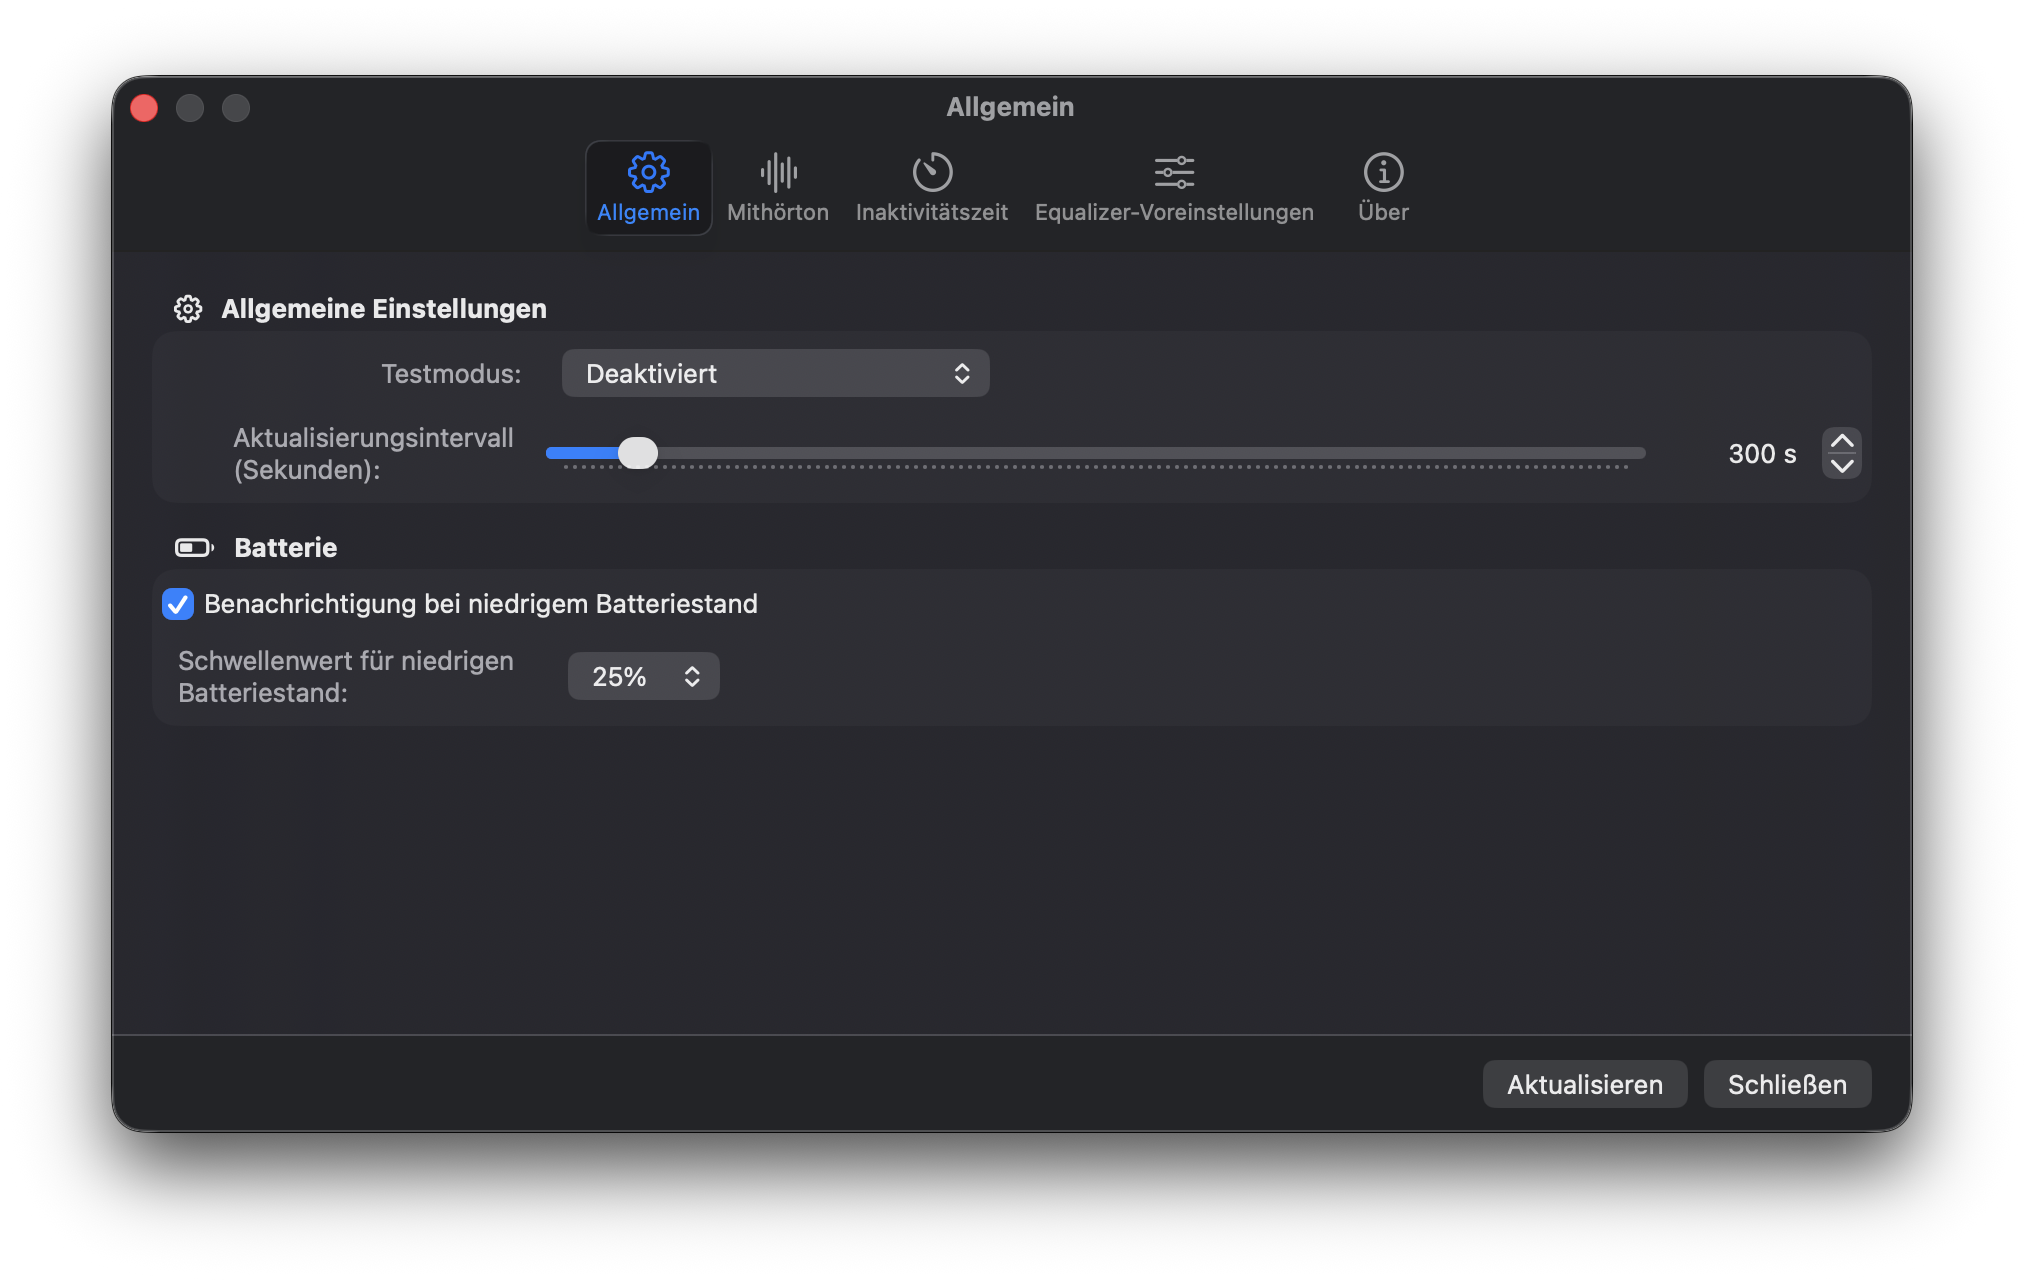
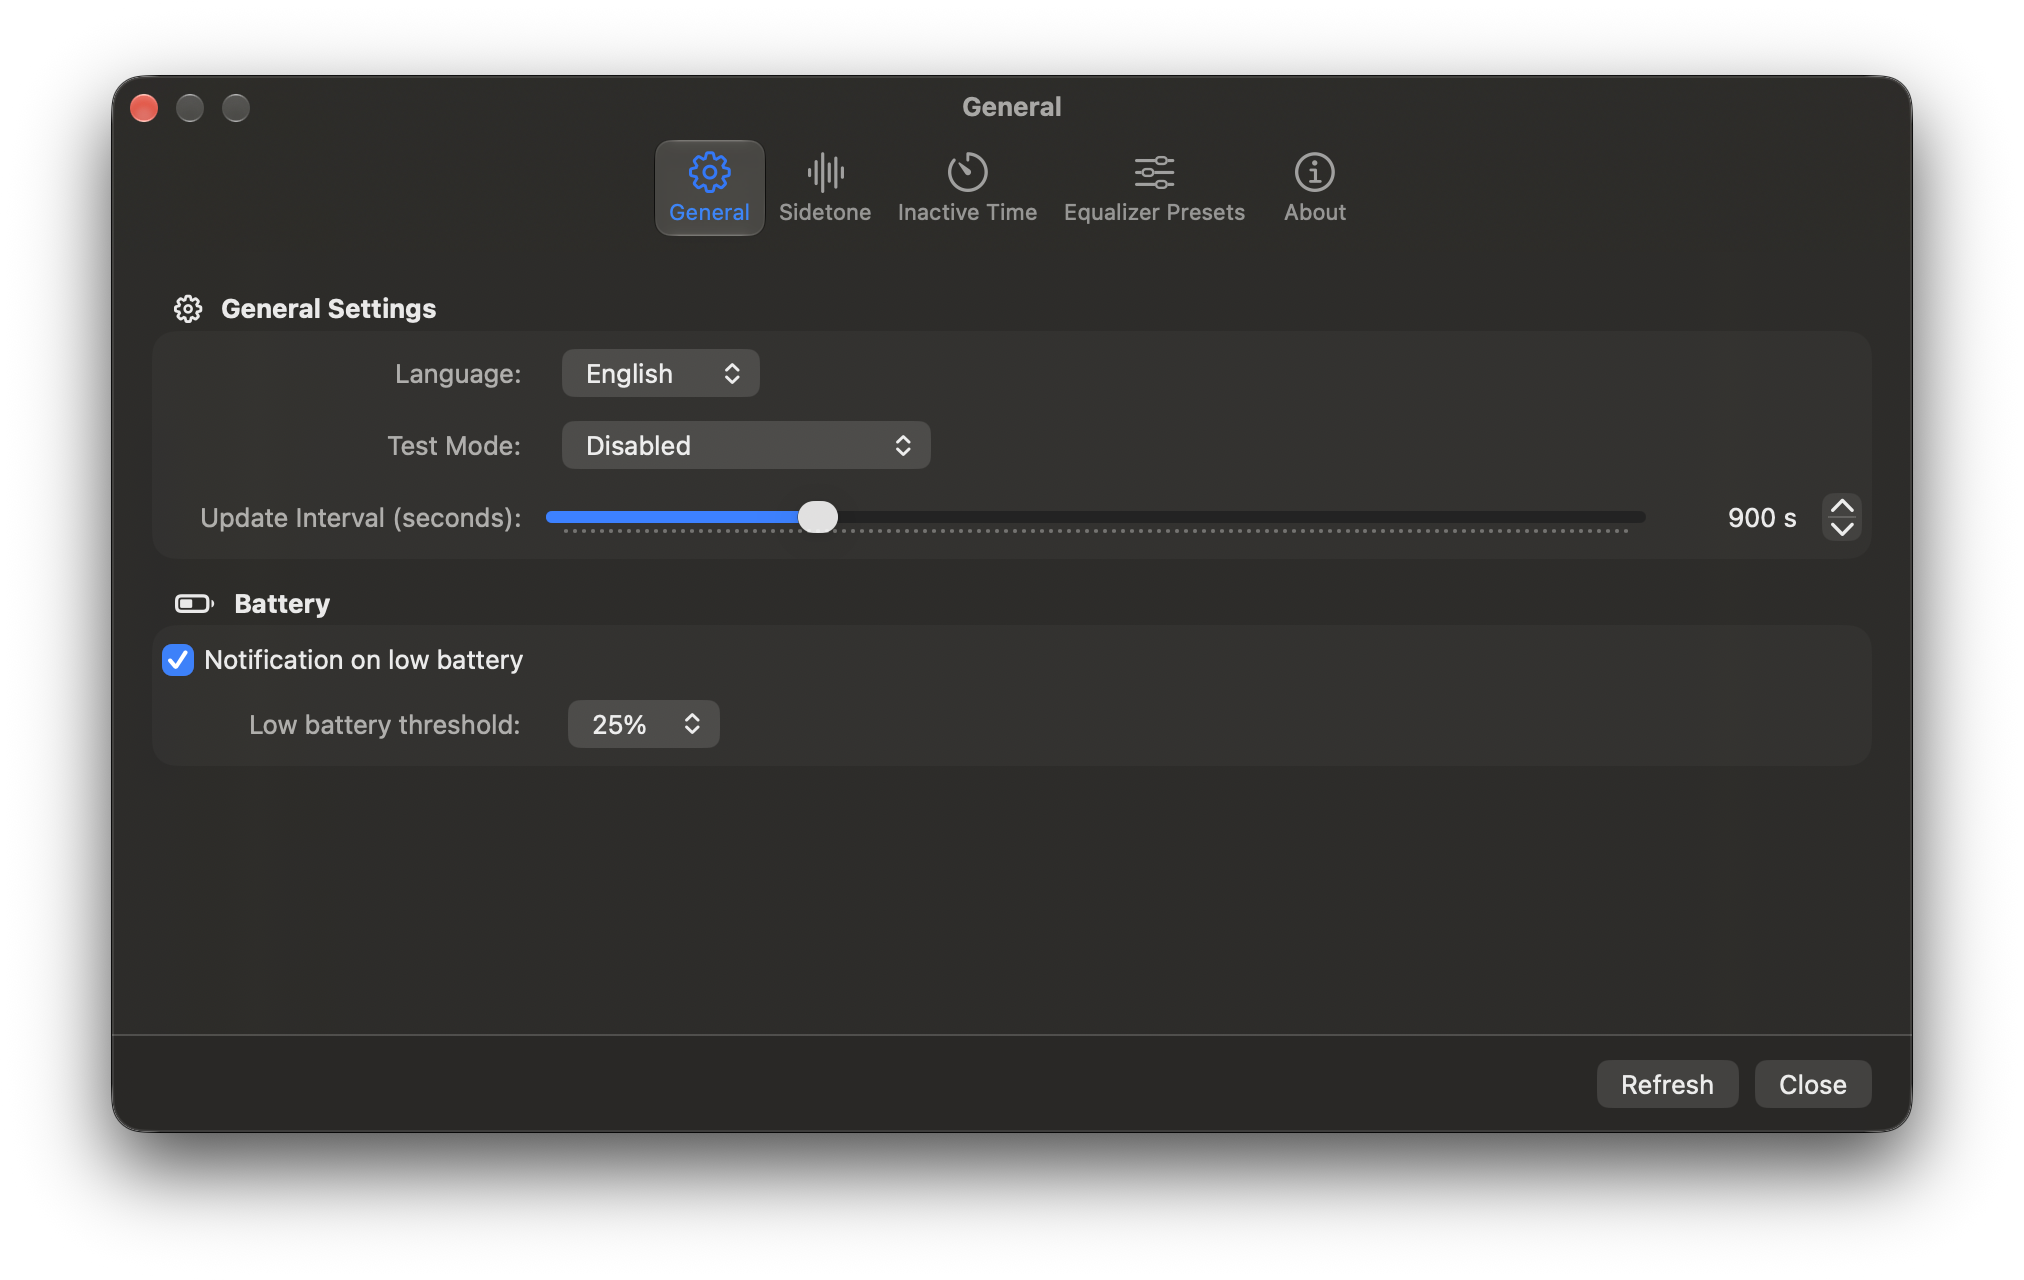
feat(settings): add app language selector (#41)
* feat(settings): add app language selector

* docs(settings): refresh screenshots and bump build number

diff --git a/HeadsetControl-MacOSTray/SettingsView.swift b/HeadsetControl-MacOSTray/SettingsView.swift
@@ -36,6 +36,10 @@ struct SettingsSection<Content: View>: View {
 struct SettingsView: View {
     @State private var nativeVersions: NativeDependencyVersions?
     @State private var requestedNativeVersions = false
+    @State private var selectedLanguage = AppDefaults.selectedLanguage(
+        in: AppDefaults.standard, domain: Bundle.main.bundleIdentifier ?? ""
+    )
+    @State private var languageRestartRequired = false
     @AppStorage("sidetoneOff", store: AppDefaults.standard) var sidetoneOff: Int = AppDefaults.sidetoneValues[0]
     @AppStorage("sidetoneLow", store: AppDefaults.standard) var sidetoneLow: Int = AppDefaults.sidetoneValues[1]
     @AppStorage("sidetoneMid", store: AppDefaults.standard) var sidetoneMid: Int = AppDefaults.sidetoneValues[2]
@@ -177,6 +181,33 @@ struct SettingsView: View {
                     title: NSLocalizedString("General Settings", comment: "General settings section header"),
                     systemImage: "gearshape"
                 ) {
+                    HStack(alignment: .center, spacing: 12) {
+                        settingsLabel(NSLocalizedString("Language:", comment: "App language label"))
+                        Picker("", selection: $selectedLanguage) {
+                            Text(NSLocalizedString("System", comment: "Follow the system language"))
+                                .tag("")
+                            Text(NSLocalizedString("English", comment: "English language name"))
+                                .tag("en")
+                            Text(NSLocalizedString("Deutsch", comment: "German language name"))
+                                .tag("de")
+                            Text(NSLocalizedString("Español", comment: "Spanish language name"))
+                                .tag("es")
+                            Text(NSLocalizedString("Français", comment: "French language name"))
+                                .tag("fr")
+                        }
+                        .pickerStyle(.menu)
+                        .frame(maxWidth: 260, alignment: .leading)
+                        .onChange(of: selectedLanguage) { _, newValue in
+                            AppDefaults.setLanguage(newValue, in: AppDefaults.standard)
+                            languageRestartRequired = true
+                        }
+                    }
+                    if languageRestartRequired {
+                        Text(NSLocalizedString("Restart the app to apply the language change.", comment: "Language change restart notice"))
+                            .font(.caption)
+                            .foregroundColor(.secondary)
+                    }
+
                     HStack(alignment: .center, spacing: 12) {
                         settingsLabel(NSLocalizedString("Test Mode:", comment: "Test mode label"))
                         Picker("", selection: Binding(get: { AppDefaults.validatedTestProfile(testMode) }, set: { testMode = AppDefaults.validatedTestProfile($0) })) {

diff --git a/HeadsetControl-MacOSTrayTests/AppDefaultsTests.swift b/HeadsetControl-MacOSTrayTests/AppDefaultsTests.swift
@@ -2,6 +2,21 @@ import XCTest
 @testable import HeadsetControl_MacOSTray
 
 final class AppDefaultsTests: XCTestCase {
+    func testLanguageSelectionOverridesAndRestoresSystemPreference() throws {
+        let name = "HeadsetLanguageTests.\(UUID())"
+        let store = try XCTUnwrap(UserDefaults(suiteName: name))
+        defer { store.removePersistentDomain(forName: name) }
+
+        XCTAssertEqual(AppDefaults.selectedLanguage(in: store, domain: name), "")
+        AppDefaults.setLanguage("de", in: store)
+        XCTAssertEqual(AppDefaults.selectedLanguage(in: store, domain: name), "de")
+        XCTAssertEqual(store.persistentDomain(forName: name)?["AppleLanguages"] as? [String], ["de"])
+
+        AppDefaults.setLanguage("", in: store)
+        XCTAssertEqual(AppDefaults.selectedLanguage(in: store, domain: name), "")
+        XCTAssertNil(store.persistentDomain(forName: name)?["AppleLanguages"])
+    }
+
     func testSnapshotAgeUsesTheValidatedIntervalAndGrace() {
         for (interval, threshold) in [(60, 120), (300, 360), (900, 960), (3600, 3660)] {
             XCTAssertEqual(AppDefaults.snapshotMaximumAge(for: interval), Double(threshold))

diff --git a/HeadsetControl-MacOSTray/AppDefaults.swift b/HeadsetControl-MacOSTray/AppDefaults.swift
@@ -16,6 +16,21 @@ nonisolated enum AppDefaults {
     static let equalizerPresets = "Preset 1,Preset 2,Preset 3,Preset 4"
     static let inactiveTimeOptions = [1, 2, 5, 10, 15, 30, 45, 60, 75, 90]
     static var inactiveTimeOptionsRaw: String { inactiveTimeOptions.map(String.init).joined(separator: ",") }
+    static let supportedLanguages = ["en", "de", "es", "fr"]
+
+    static func selectedLanguage(in store: UserDefaults, domain: String) -> String {
+        guard let languages = store.persistentDomain(forName: domain)?["AppleLanguages"] as? [String],
+              let language = languages.first, supportedLanguages.contains(language) else { return "" }
+        return language
+    }
+
+    static func setLanguage(_ language: String, in store: UserDefaults) {
+        if supportedLanguages.contains(language) {
+            store.set([language], forKey: "AppleLanguages")
+        } else {
+            store.removeObject(forKey: "AppleLanguages")
+        }
+    }
 
     // Evaluated before any @AppStorage access, including Settings previews.
     static let standard: UserDefaults = {
